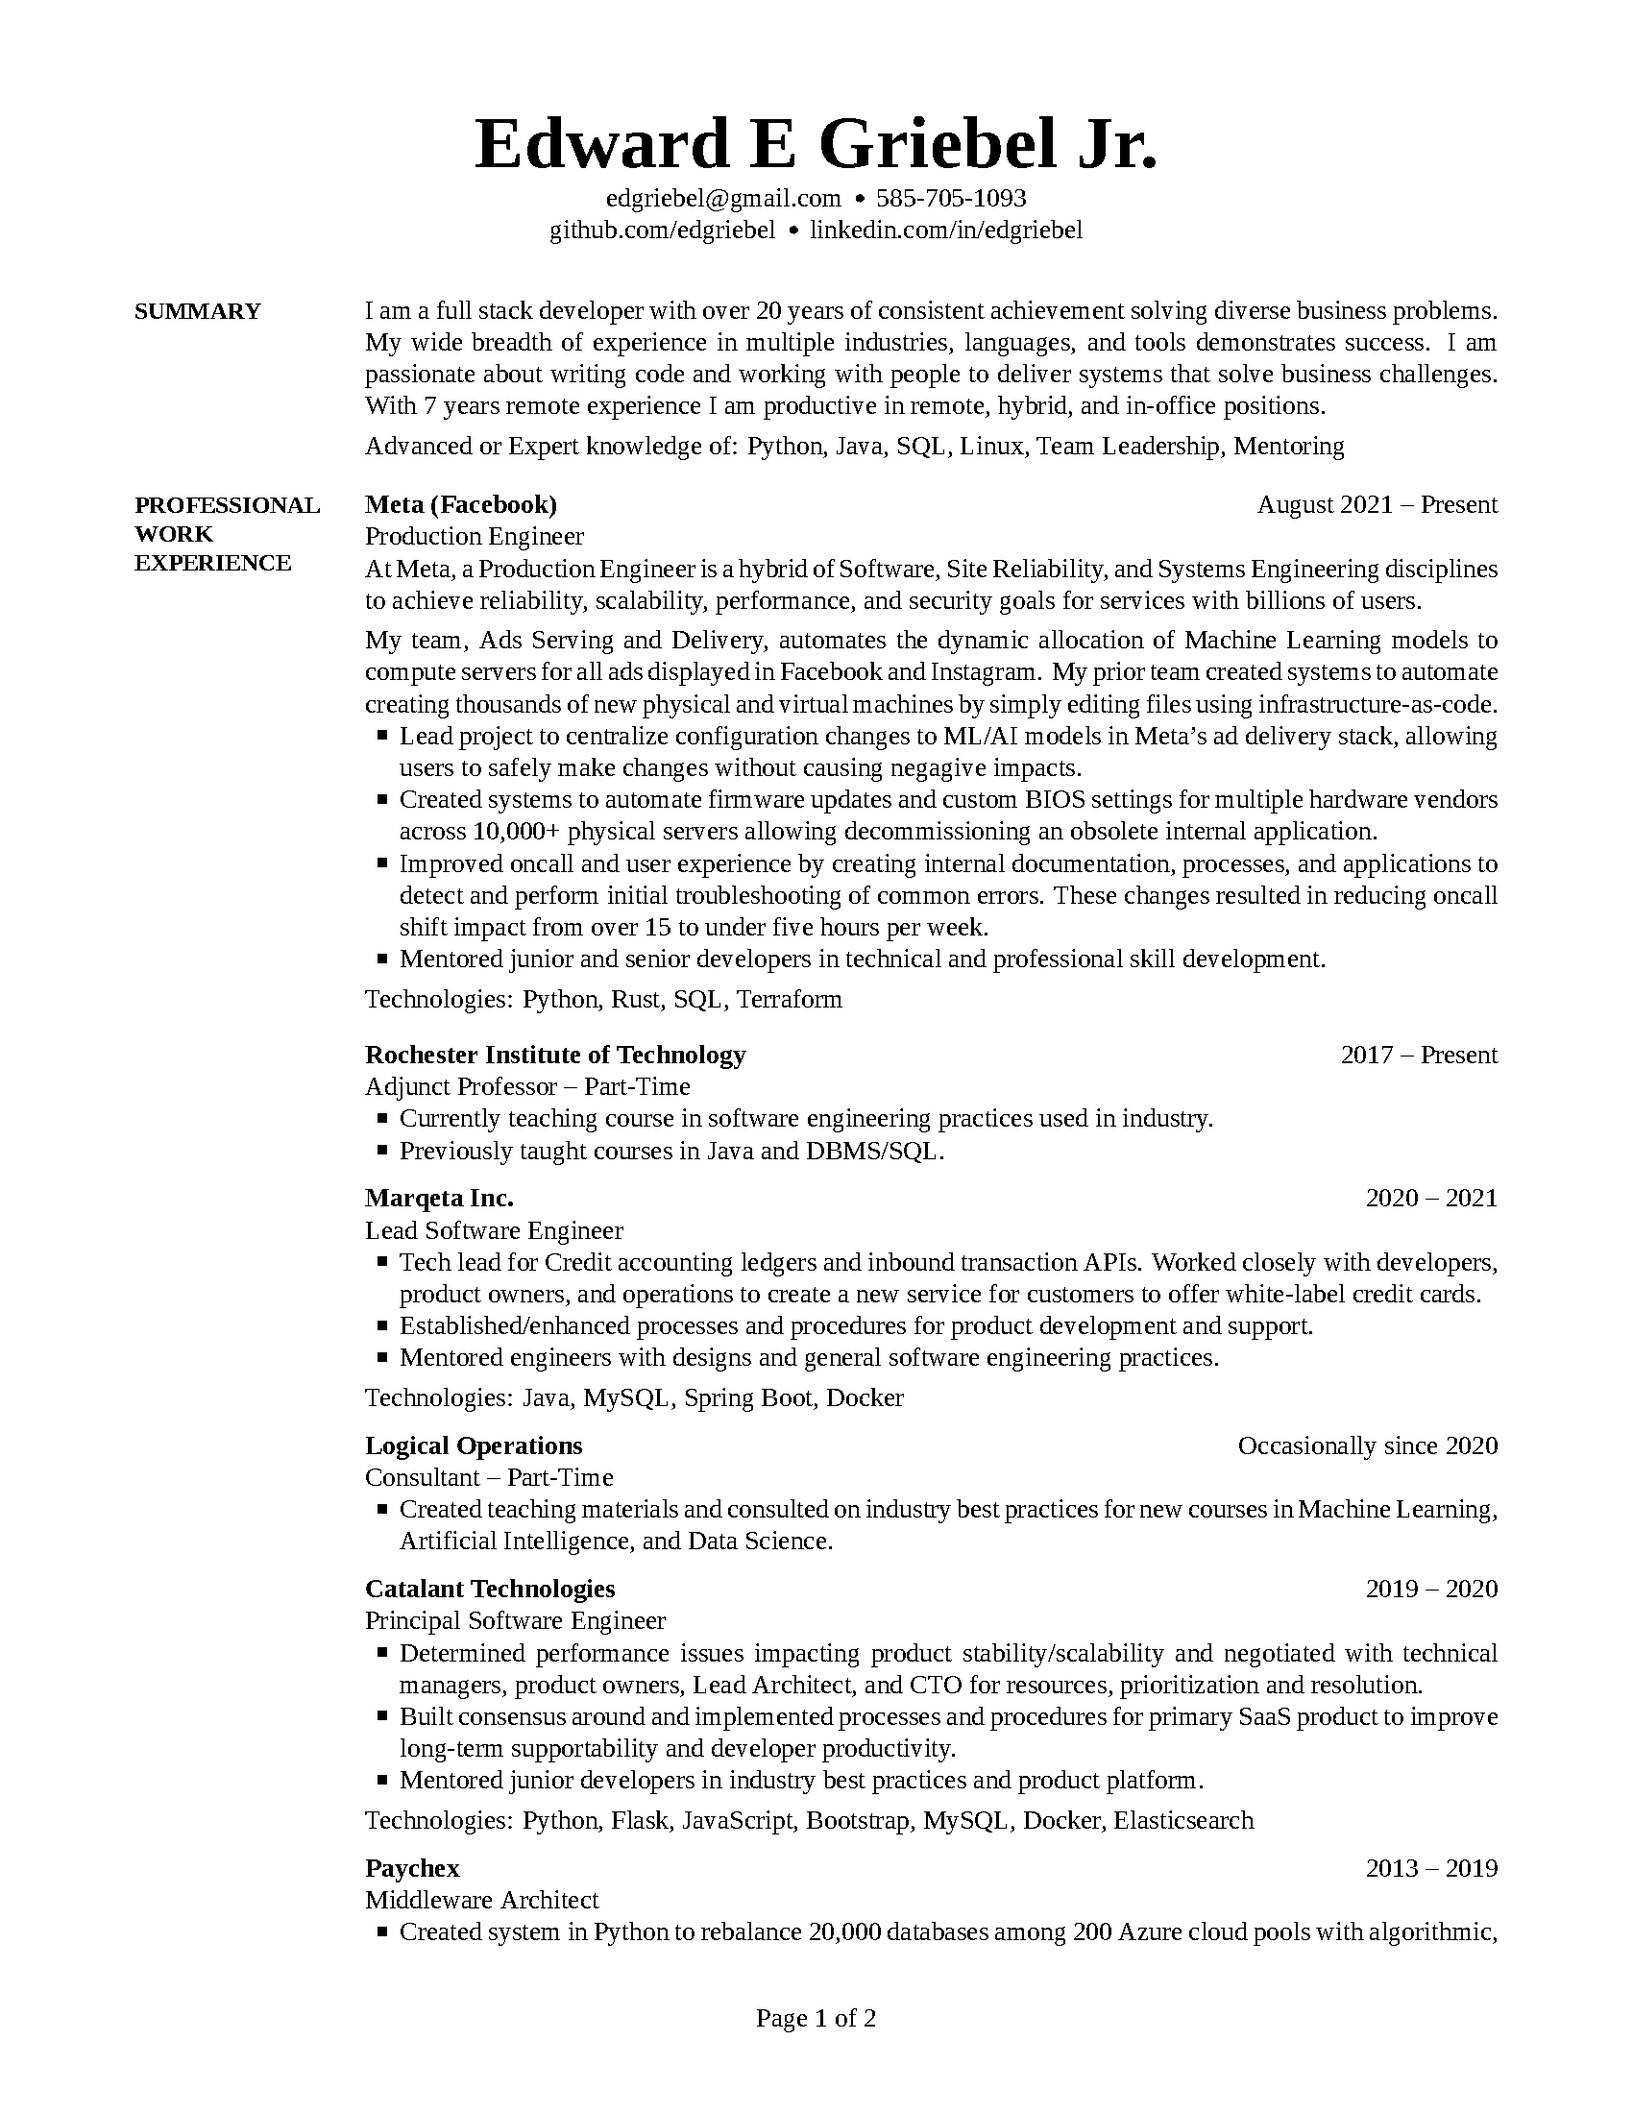
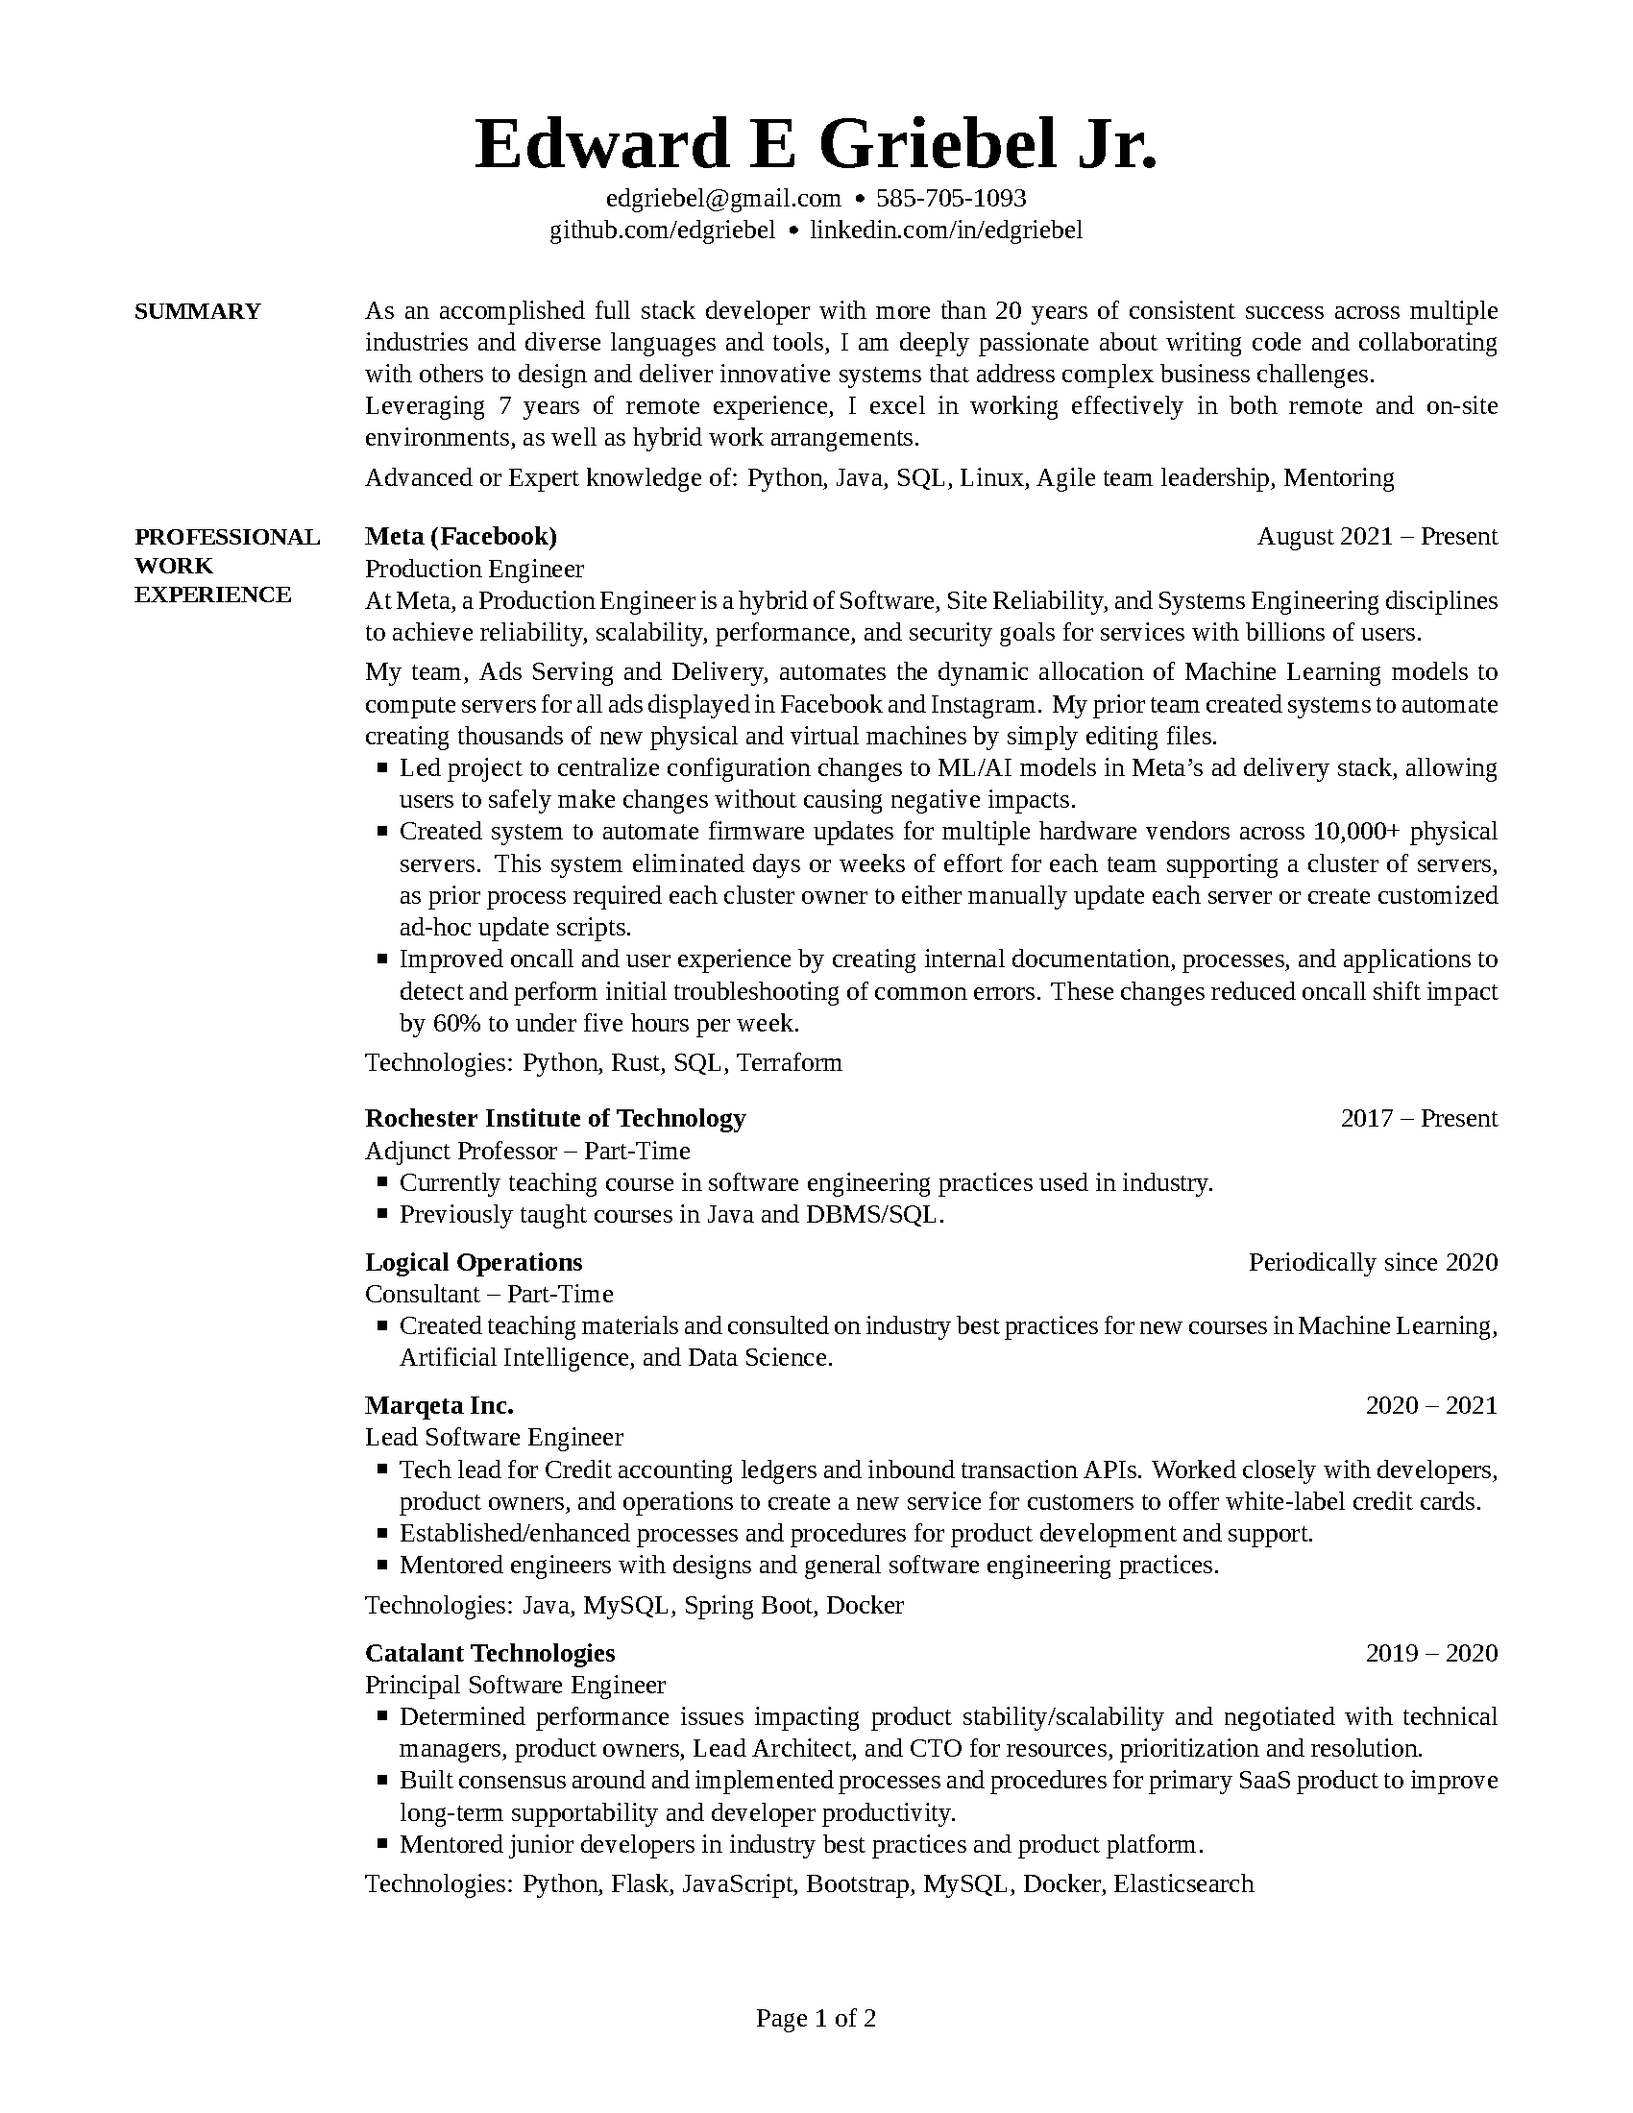
Reworded summary, tweak Paychex, push Paychex to page2, move LogOps

Changed region(s): [[0.2182, 0.1236, 0.9041, 0.9273], [0.0935, 0.2473, 0.1871, 0.2782]]

diff --git a/Ed_Griebel_CV.tex b/Ed_Griebel_CV.tex
@@ -60,7 +60,6 @@ breaklinks}
 %%%%%%%%%%%%%%%%%%%%%%%%%%%%%%%%%%%%%%%%%%%%%%%%%%%%%%%%%%%%%%%%%
 %% ACTUAL DOCUMENT.
 %%%%%%%%%%%%%%%%%%%%%%%%%%%%%%%%%%%%%%%%%%%%%%%%%%%%%%%%%%%%%%%%%
-
 \begin{document}
 
 %% Use Sans font
@@ -98,25 +97,36 @@ breaklinks}
 
 \begin{Body}
 \Section{Summary}{Summary}{PDF:Summary}
-I am a full stack developer with over 20 years of consistent achievement solving diverse business problems.
-My wide breadth of experience in multiple industries, languages, and tools demonstrates success. 
-I am passionate about writing code and working with people to deliver systems that solve business challenges.
-With 7 years remote experience I am productive in remote, hybrid, and in-office positions. 
+%% ORIG
 
-%% Language-Agnostic Full Stack Developer with over 20 years of success creating software solutions.
-%% Wide breadth of experience in multiple industries, languages, tools, and third-party applications demonstrates success.
-%% Excited to create code to deliver high quality systems that support business growth.
+%% 2021 LinkedIn Language-Agnostic Full Stack Developer with over 20 years of success creating software solutions.
+%% 2021 LinkedIn Wide breadth of experience in multiple industries, languages, tools, and third-party applications demonstrates success.
+%% 2021 LinkedIn Excited to create code to deliver high quality systems that support business growth.
+
+%% ORIG I am a full stack developer with over 20 years of consistent achievement solving diverse business problems.
+%% ORIG My wide breadth of experience in multiple industries, languages, and tools demonstrates success. 
+%% ORIG With 7 years remote experience I am productive in remote, hybrid, and in-office positions. 
+
+%% V1 I am passionate about writing code and working with people to deliver systems that solve business challenges.
+%% V1 As a full stack developer with over 20 years of consistent achievement 
+%% V1 in multiple industries with diverse languages and tools.
+%% V1 With 7 years remote experience I am productive in remote, hybrid, and in-office positions. 
+
+%% -- ChatGPT
+As an accomplished full stack developer with more than 20 years of consistent success across multiple industries and diverse languages and tools, I am deeply passionate about writing code and collaborating with others to design and deliver innovative systems that address complex business challenges. 
+
+Leveraging 7 years of remote experience, I excel in working effectively in both remote and on-site environments, as well as hybrid work arrangements.
+%% -- ChatGPT
+
+
 \iffalse
 \Entry
 Full Stack/Backend Java architect, developer, and consultant, specializing in Java/Oracle/JavaScript
 solutions and integrations.
 \fi
 \Gap
-Advanced or Expert knowledge of: Python, Java, SQL, Linux, Team Leadership, Mentoring
-\iffalse
-\Gap
-\textit{Business Specialties}: Agile team leadership, customer-focused development, mentoring, requirements gathering and analysis, technical liaison, systems integration, business intelligence
-\fi
+Advanced or Expert knowledge of: Python, Java, SQL, Linux, Agile team leadership, Mentoring
+
 %%%%%%%%%%%%%%%%%%%%%%%%%%%%%%%%%%
 %% PROFESSIONAL WORK EXPERIENCE %%
 %%%%%%%%%%%%%%%%%%%%%%%%%%%%%%%%%%
@@ -147,24 +157,25 @@ to achieve reliability, scalability, performance, and security goals for service
 \Gap
 
 My team, Ads Serving and Delivery, automates the dynamic allocation of Machine Learning models to compute servers for all ads displayed in Facebook and Instagram.
-My prior team created systems to automate creating thousands of new physical and virtual machines by simply editing files using infrastructure-as-code.
+My prior team created systems to automate creating thousands of new physical and virtual machines by simply editing files. 
+%% using infrastructure-as-code.
 
 %% A key part of being a senior engineer is responsibility for determining scope, driving o
 
 \BulletItem
 %% Lead project to implement centralized configuration changes to AI models in Facebook ad delivery stack. Effort involved identifying problematic areas and user education while ensuring these changes resulted in zero downtime or other negative impacts to ads serving stack.
-Lead project to centralize configuration changes to ML/AI models in Meta's ad delivery stack, allowing users to safely make changes without causing negagive impacts.
+Led project to centralize configuration changes to ML/AI models in Meta's ad delivery stack, allowing users to safely make changes without causing negative impacts.
 
 \BulletItem
-Created systems to automate firmware updates and custom BIOS settings for multiple hardware vendors across 10,000+ physical servers allowing decommissioning an obsolete internal application. 
+Created system to automate firmware updates for multiple hardware vendors across 10,000+ physical servers. 
+This system eliminated days or weeks of effort for each team supporting a cluster of servers, as prior process required each cluster owner to either manually update each server or create customized ad-hoc update scripts.
 
 \BulletItem
 Improved oncall and user experience by creating internal documentation, processes, and applications to detect and perform initial troubleshooting of common errors.
-These changes resulted in reducing oncall shift impact from over 15 to under five hours per week.
+These changes reduced oncall shift impact by 60\% to under five hours per week.
 %% Necessary changes determined by analyzing common user questions, recurring support issues, and experience during outages. 
 
-\BulletItem
-Mentored junior and senior developers in technical and professional skill development.
+%% \BulletItem Mentored junior and senior developers in technical and professional skill development.
 
 %% \BulletItem
 %% My team builds tools for full lifecycle automation of tens to thousands of physical servers or virtual machines by just editing a file.
@@ -204,6 +215,28 @@ Previously taught courses in Java and DBMS/SQL.
 \end{Detail}
 
 \BigGap
+
+\Entry
+\href{http://logicalopertions.com/}
+{\textbf{Logical Operations}}
+\hfill
+Periodically since \DatestampY{2020}
+
+%%\Gap
+%%\BulletItem
+Consultant -- Part-Time
+\ifLOCATION
+\hfill 
+Rochester, New York
+\fi
+
+\begin{Detail}
+\BulletItem
+Created teaching materials and consulted on industry best practices for new courses in Machine Learning, Artificial Intelligence, and Data Science.
+\end{Detail}
+
+\BigGap
+
 \Entry
 \href{https://www.marqeta.com}
 {\textbf{Marqeta Inc.}}
@@ -229,27 +262,6 @@ Mentored engineers with designs and general software engineering practices.
 \Gap
 Technologies: Java, MySQL, Spring Boot, Docker
 
-\end{Detail}
-
-\BigGap
-
-\Entry
-\href{http://logicalopertions.com/}
-{\textbf{Logical Operations}}
-\hfill
-Occasionally since \DatestampY{2020}
-
-%%\Gap
-%%\BulletItem
-Consultant -- Part-Time
-\ifLOCATION
-\hfill 
-Rochester, New York
-\fi
-
-\begin{Detail}
-\BulletItem
-Created teaching materials and consulted on industry best practices for new courses in Machine Learning, Artificial Intelligence, and Data Science.
 \end{Detail}
 
 \BigGap
@@ -281,6 +293,13 @@ Technologies: Python, Flask, JavaScript, Bootstrap, MySQL, Docker, Elasticsearch
 \end{Detail}
 
 \BigGap
+\clearpage
+
+%% ===========================================
+%% ===========================================
+%% =============     PAGE 2   ================
+%% ===========================================
+%% ===========================================
 
 \Entry
 \href{http://www.paychex.com}
@@ -288,7 +307,7 @@ Technologies: Python, Flask, JavaScript, Bootstrap, MySQL, Docker, Elasticsearch
 \hfill
 \DatestampY{2013} -- \DatestampY{2019}
 
-Middleware Architect %% Crappy Name!!
+Senior Middleware Architect %% Crappy Name!!
 \ifLOCATION
 \hfill
 Rochester, New York
@@ -296,23 +315,27 @@ Rochester, New York
 
 \begin{Detail}
 \iffalse
-At Paychex I worked with cross-functional teams to build: an inventory system to track hosts, managed VMs, databases, and middleware appliances; machine learning systems to efficiently repack databases and to predict system utilization based on user metrics; a ground-up implementation of the Netflix Chaos Monkey; implemented AppDynamics on over 20,000 JVMs; and a system to collect and monitor JVM metrics and send alerts via SNMP and SMTP.
+At Paychex I worked with multiple cross-functional teams to build: an inventory system to track hosts, JVMs, and databases; machine learning systems in Python to efficiently rebalance databases and predict system utilization; custom Chaos Monkey ro randomly terminate process to find configuration weaknesses; and implemented AppDynamics on over 20,000 JVMs.
 \fi
 
+\iftrue
 \BulletItem
-Created system in Python to rebalance 20,000 databases among 200 Azure cloud pools with algorithmic, statistical, and machine learning techniques using TensorFlow, Pandas, and scikit-learn.
+Created Python system to rebalance 20,000 databases among 200 Azure cloud pools with statistical and ML techniques.
+
+%% \BulletItem Built internal inventory system with web and REST APIs providing a single source of truth for virtualized and physical hosts, JVMs, CLRs, databases, and middleware. 
+%% Relationships sourced from external management systems including AppDynamics, Puppet, ServiceNow, and Oracle.
 
 \BulletItem
-Built internal inventory system with web and REST APIs providing a single source of truth for virtualized and physical hosts, JVMs, CLRs, databases, and middleware. Relationships sourced from external management systems including AppDynamics, Puppet, ServiceNow, and Oracle.
+Created custom Chaos Monkey to regularly terminate middleware and Java processes randomly. 
+%% in Production and Dev environments.
 
 \BulletItem
-Created custom Chaos Monkey implementation that would randomly kill middleware appliances and Java processes daily in multiple environments.
-
-\BulletItem
-Implemented AppDynamics on over 20,000 JVMs to replace a custom built system that collected and monitored JVM metrics, saving four FTEs annually.
+Integrated AppDynamics APM to track inventory and metrics on over 20,000 JVMs, replacing a bespoke system saving four FTEs annually.
 
 \Gap
-Technologies: Java, JavaScript, Python, Oracle PL/SQL, Scikit-Learn, AppDynamics, Application Performance Monitoring (APM)
+Technologies: Java, JavaScript, Python, Scikit-Learn, TensorFlow, Oracle PL/SQL, AppDynamics, Application Performance Monitoring
+\fi
+
 \end{Detail}
 
 \BigGap
@@ -372,6 +395,7 @@ Rochester, New York
 %% \BulletItem
 Owned the integration, performance tuning, and upgrade of Cognos Business Intelligence modules.
 %% \BulletItem
+
 Internal technical consultant for professional services and product management teams.
 
 %% \Gap
@@ -400,10 +424,12 @@ Rochester, New York
 
 \begin{Detail}
 %% \BulletItem
-Lead team of five to create Java/JavaScript front end and webapp for an existing internal fat client, and upgraded two existing web applications to contemporary standards. Used Hudson to create a CI/CD pipeline for Dev and QA deployments.
+Led team of six to create Java/JavaScript front end and webapp for an existing internal fat client, and upgraded two existing web applications to contemporary standards. 
+
+Used Hudson to create a CI/CD pipeline for Dev and QA deployments.
 
 %% \BulletItem
-Mentored new developers and delivered technical training.
+%% Mentored new developers and delivered technical training.
 %% 2021-05-02 TMI
 \iffalse
 \BulletItem
@@ -433,7 +459,8 @@ Rochester, New York
 \begin{Detail}
 %% \Item
 Created Java applications to build DSL circuits and track sales commissions\comment{; CruiseControl used for Continuous Integration}. 
-Automated generation of \comment{20} Excel spreadsheets from Hyperion EssBase saving \$200,000 annually (two FTEs).
+
+Automated generation of \comment{20} Excel spreadsheets from Hyperion EssBase saving two FTEs/\$200,000 annually.
 
 %% \Gap
 %% Technologies: Java, JSP, Struts, Oracle PL/SQL, Continuous Integration, JUnit, Excel VBA, EssBase Data Warehouse, Ant
@@ -547,9 +574,10 @@ Technologies: Sybase, ksh
 
 \begin{Detail}
 %% \BulletItem
-	Lead team of five to create three public-facing fullstack Java/JavaScript applications.
-	Created CI/CD deployment pipeline with Hudson.
-	Mentored new developers and delivered technical training.
+	Led team of five to create three public-facing fullstack Java/JavaScript applications.
+
+	Created CI/CD deployment pipelines with Hudson.
+	%% Mentored new developers and delivered technical training.
 \end{Detail}
 
 \BigGap
@@ -559,7 +587,9 @@ Technologies: Sybase, ksh
 
 \begin{Detail}
 %% \BulletItem
-Created Java applications to build DSL circuits and track sales commissions\comment{; CruiseControl used for Continuous Integration}.  Automated generation of \comment{20} Excel spreadsheets from Hyperion EssBase saving \$200,000 annually (two FTEs).
+Created Java applications to build DSL circuits and track sales commissions.
+
+Automated generation of Excel spreadsheets from Hyperion EssBase saving two FTEs annually.
 \end{Detail}
 
 \BigGap
@@ -569,7 +599,7 @@ Created Java applications to build DSL circuits and track sales commissions\comm
 
 \begin{Detail}
 %% \BulletItem
-Lead multi-site teams to create Java and Perl CGI telecom applications.
+Led multi-site teams to create Java and Perl CGI telecom applications.
 \end{Detail}
 
 \BigGap
@@ -578,7 +608,7 @@ Lead multi-site teams to create Java and Perl CGI telecom applications.
 {\textbf{JP Morgan Chase}}
 \begin{Detail}
 %% \BulletItem
-Created trading systems in C/C++ and tactical applications for equity derivatives and HFT trading desks.
+Created trading systems in C/C++ and Excel for equity derivatives and HFT trading desks.
 \end{Detail}
 
 \BigGap
